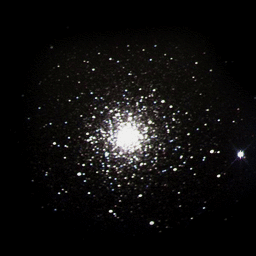
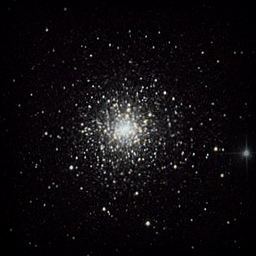
Update and add some DSO textures  (#610)
* Update  and add some DSO textures

Update  and add some DSO textures

* Update textures.json

* Update CREDITS.md

* Update etaCarinae.png

* Update sh2-263.png

diff --git a/CREDITS.md b/CREDITS.md
@@ -321,8 +321,9 @@
 	    right to modify and redistribute) "as long as it is credited."
 	4.8 M31 pictures come from LEE ang HG731GZ
 	    License: Creative Commons Attribution 3.0 Unported
-	4.9 Images of NGC1499, NGC2244 
-	    from Jean-Pierre Bousquet
+	4.9 Images of Sh2-261
+	    from Yang Kai
+	    License: public domain 
 	4.10 Images of M1, M16, M27, M42, M57, M97, NGC6946 from Stephane
 	     Dumont
 	4.11 Images of M17, M44, NGC856, NGC884 from Maxime Spano
@@ -355,9 +356,9 @@
 	     http://olegbr.astroclub.kiev.ua/
 	     License: Creative Commons Attribution 3.0 Unported
 	4.17 Image of eta Carinae 
-	     from Georg Zotti
-	     http://www.waa.at/
-	     License: Creative Commons Attribution 3.0 Unported
+	     from Harel Boren
+	     http://www.pbase.com/
+	     License: Creative Commons Attribution-Share Alike 4.0 International
 	4.18 Images of IC1805, IC1848
 	     from Steve Tuttle
 	     http://www.stuttle1.com/
@@ -365,7 +366,7 @@
 	     NGC7590, RCW158
 	     from Trevor Gerdes
 	     http://www.sarcasmogerdes.com/
-	4.20 Images of IC2118, NGC1532
+	4.20 Images of NGC1532
 		from users of Ice In Space
 		http://www.iceinspace.com.au/
 	4.21 Image of IC5146 from James A Weier
@@ -424,7 +425,8 @@
 	     License: public domain
 	4.38 Images of IC1396 from Giuseppe Donatiello
 	     License: Creative Commons CC0 1.0 Universal Public Domain Dedication
-	4.39 Images of M88, M108, M109, NGC225, NGC663, NGC1931, NGC6823, NGC7814, Sh2-155 
+	4.39 Images of M4, M12, M14, M19, M22, M55, M56, M62, M88, M92, M108, 
+	     M109, NGC225, NGC663, NGC1931, NGC6823, NGC7814, Sh2-155 
 	     from Hewholooks
 	     https://commons.wikimedia.org/wiki/
 	     License: Creative Commons Attribution-Share Alike 3.0 Unported
@@ -433,10 +435,11 @@
 	     License: This work is free and may be used by anyone for any purpose.
 	     If you wish to use this content, you do not need to request permission
 	     as long as you follow any licensing requirements mentioned on this page.
-	4.41 Images of M61, M64, M65, M66, M91, M99, NGC772, NGC1360, NGC1501, NGC1535, NGC1555,
-	     NGC2158, NGC2362, NGC2440, NGC2683, NGC2775, NGC3132, NGC3242, NGC3750, NGC4170,
-	     NGC4216, NGC4361, NGC4395, NGC4414,,NGC4676, NGC5248, NGC6302, NGC6563, NGC6781,
-	     NGC6894, NGC7000, NGC7354, SH2-136, Coma Cluster, Cassiopeia A, LBN438
+	4.41 Images of M61, M64, M65, M66, M91, M99, NGC613, NGC772, NGC918, NGC1042, NGC1360,
+	     NGC1501, NGC1535, NGC1555, NGC2158, NGC2362, NGC2440, NGC2683, NGC2775, 
+	     NGC3132, NGC3242, NGC3750, NGC4170,NGC4216, NGC4361, NGC4395, NGC4414,,NGC4676, 
+	     NGC5248, NGC6302, NGC6563, NGC6781, NGC6894, NGC7000, NGC7354, SH2-136, UGC3697,
+	     Coma Cluster, Cassiopeia A, LBN438, Wild's Triplet
 	     from Adam Block/Mount Lemmon SkyCenter/University of Arizona
 	     http://www.caelumobservatory.com/
 	     License: Creative Commons Attribution-Share Alike 3.0 Unported
@@ -472,7 +475,7 @@
 	     from Gianluca.pollastri
 	     https://commons.wikimedia.org/wiki/
 	     License: Creative Commons Attribution-Share Alike 4.0 International
-	4.50 Images of M78
+	4.50 Images of M2, M5, M10, M28, M30, M53, M54, M69, M71, M75, M78, M107
 	     from Starhopper
 	     https://commons.wikimedia.org/wiki/
 	     License: Creative Commons Attribution-Share Alike 4.0 International
@@ -503,14 +506,14 @@
 	4.57 Images of NGC1269
 	     from Zhu Ying
 	     License:  Creative Commons Attribution 3.0 Unported
-	4.58 Images of NGC1097
+	4.58 Images of IC2118, NGC1097, NGC1499
 	     from Zhao Jingna
 	     License:  Creative Commons Attribution 3.0 Unported
 	4.59 Images of NGC1491
 	     from Chuck Ayoub
 	     https://commons.wikimedia.org/wiki/
 	     License:  Creative Commons Attribution-Share Alike 4.0 International
-	4.60 Images of IC2169, NGC3077, UGC10822, Barnard207
+	4.60 Images of IC2169, NGC2244, NGC3077, SH2-263, UGC10822, Barnard207
 	     from Keesscherer
 	     https://commons.wikimedia.org/wiki/
 	     License:  Creative Commons Attribution-Share Alike 4.0 International
@@ -572,7 +575,7 @@
 	     from Egres73
 	     https://commons.wikimedia.org/wiki/
 	     License: Creative Commons Attribution-Share Alike 3.0 Unported
-	4.76 Images of NGC6905
+	4.76 Images of M72, NGC6905
 	     from Tom Wildoner
 	     https://commons.wikimedia.org/wiki/
 	     License: Creative Commons Attribution-Share Alike 4.0 International
@@ -619,6 +622,14 @@
 	4.87 Images of NGC6087
 	     from Roberto Mura
 	     https://en.wikipedia.org/
+	     License: Creative Commons Attribution-Share Alike 3.0 Unported
+	4.88 Images of NGC362
+	     from ESO/VISTA VMC
+	     http://eso.org/public/
+	     License: Creative Commons Attribution 4.0 International 
+	4.89 Images of NGC2997
+	     from Adam Block/ChileScope
+	     http://www.caelumobservatory.com/
 	     License: Creative Commons Attribution-Share Alike 3.0 Unported
 ```
 
